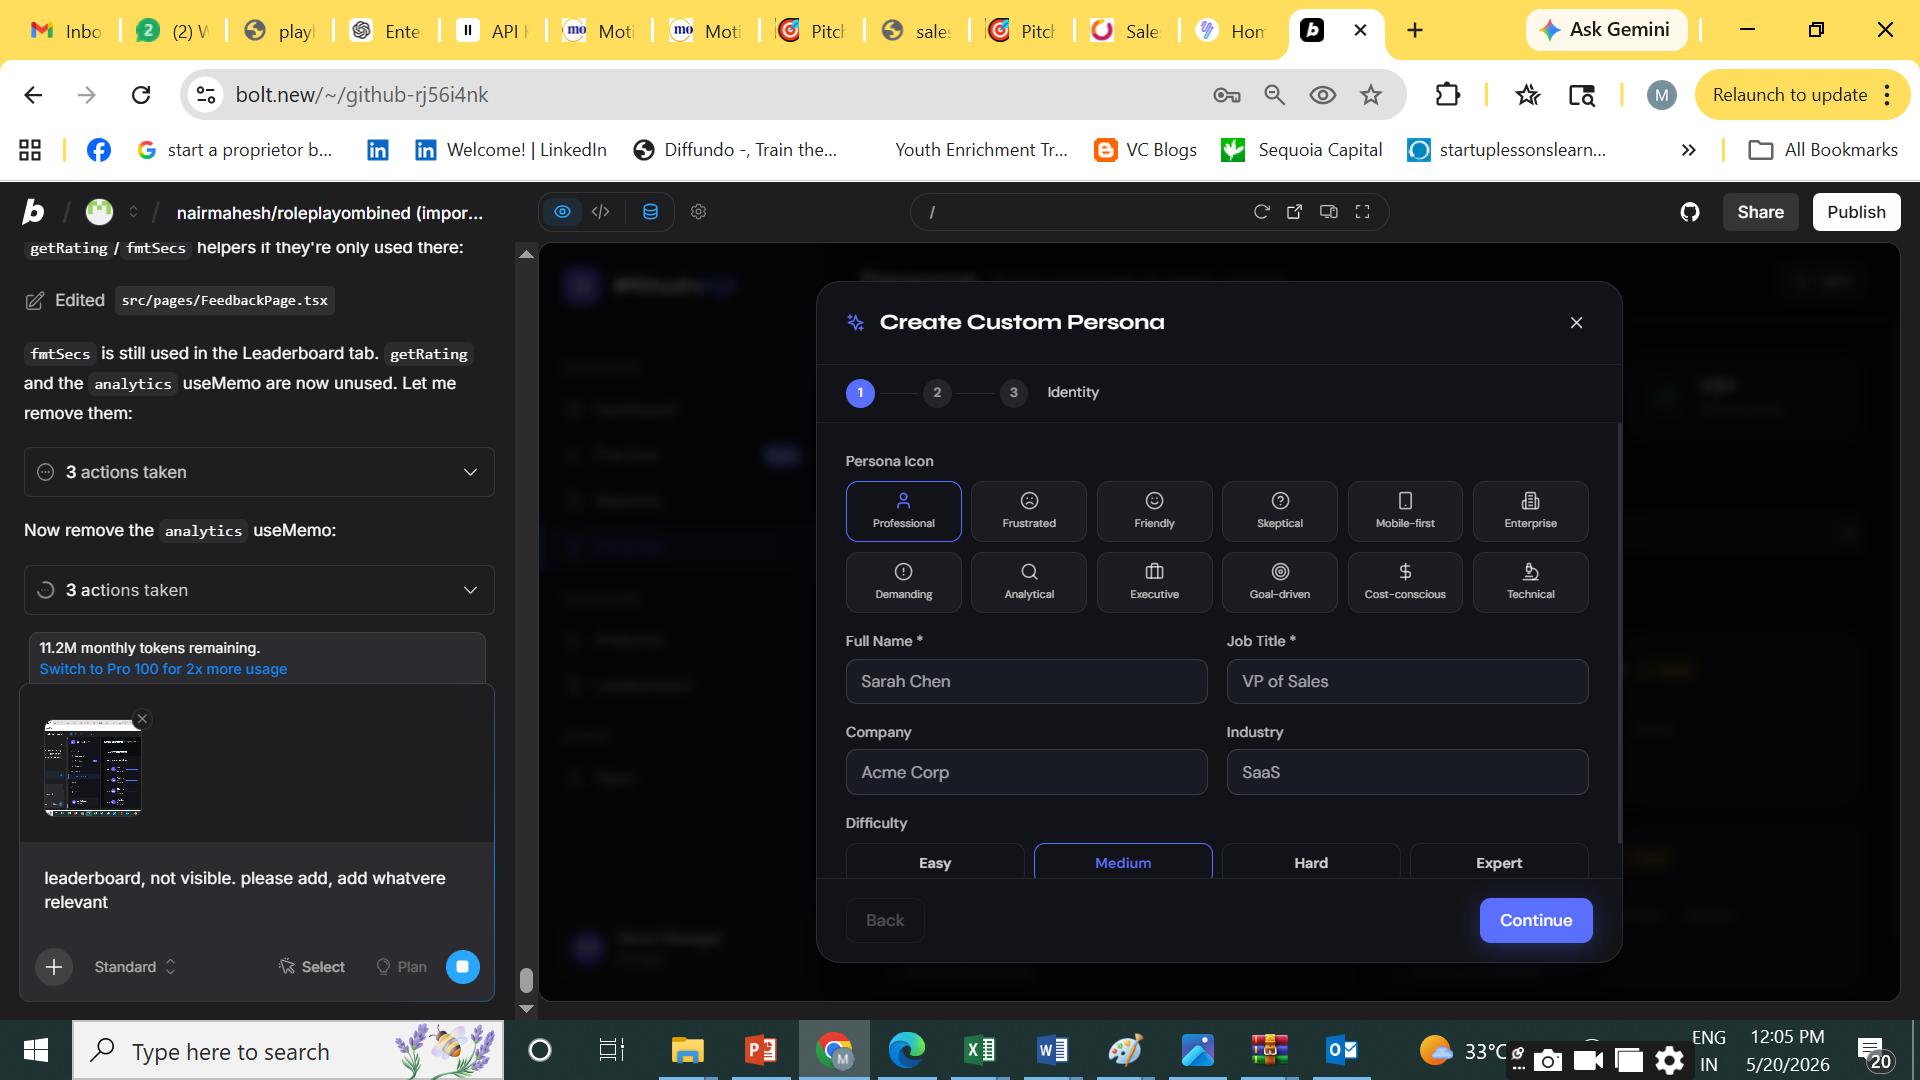
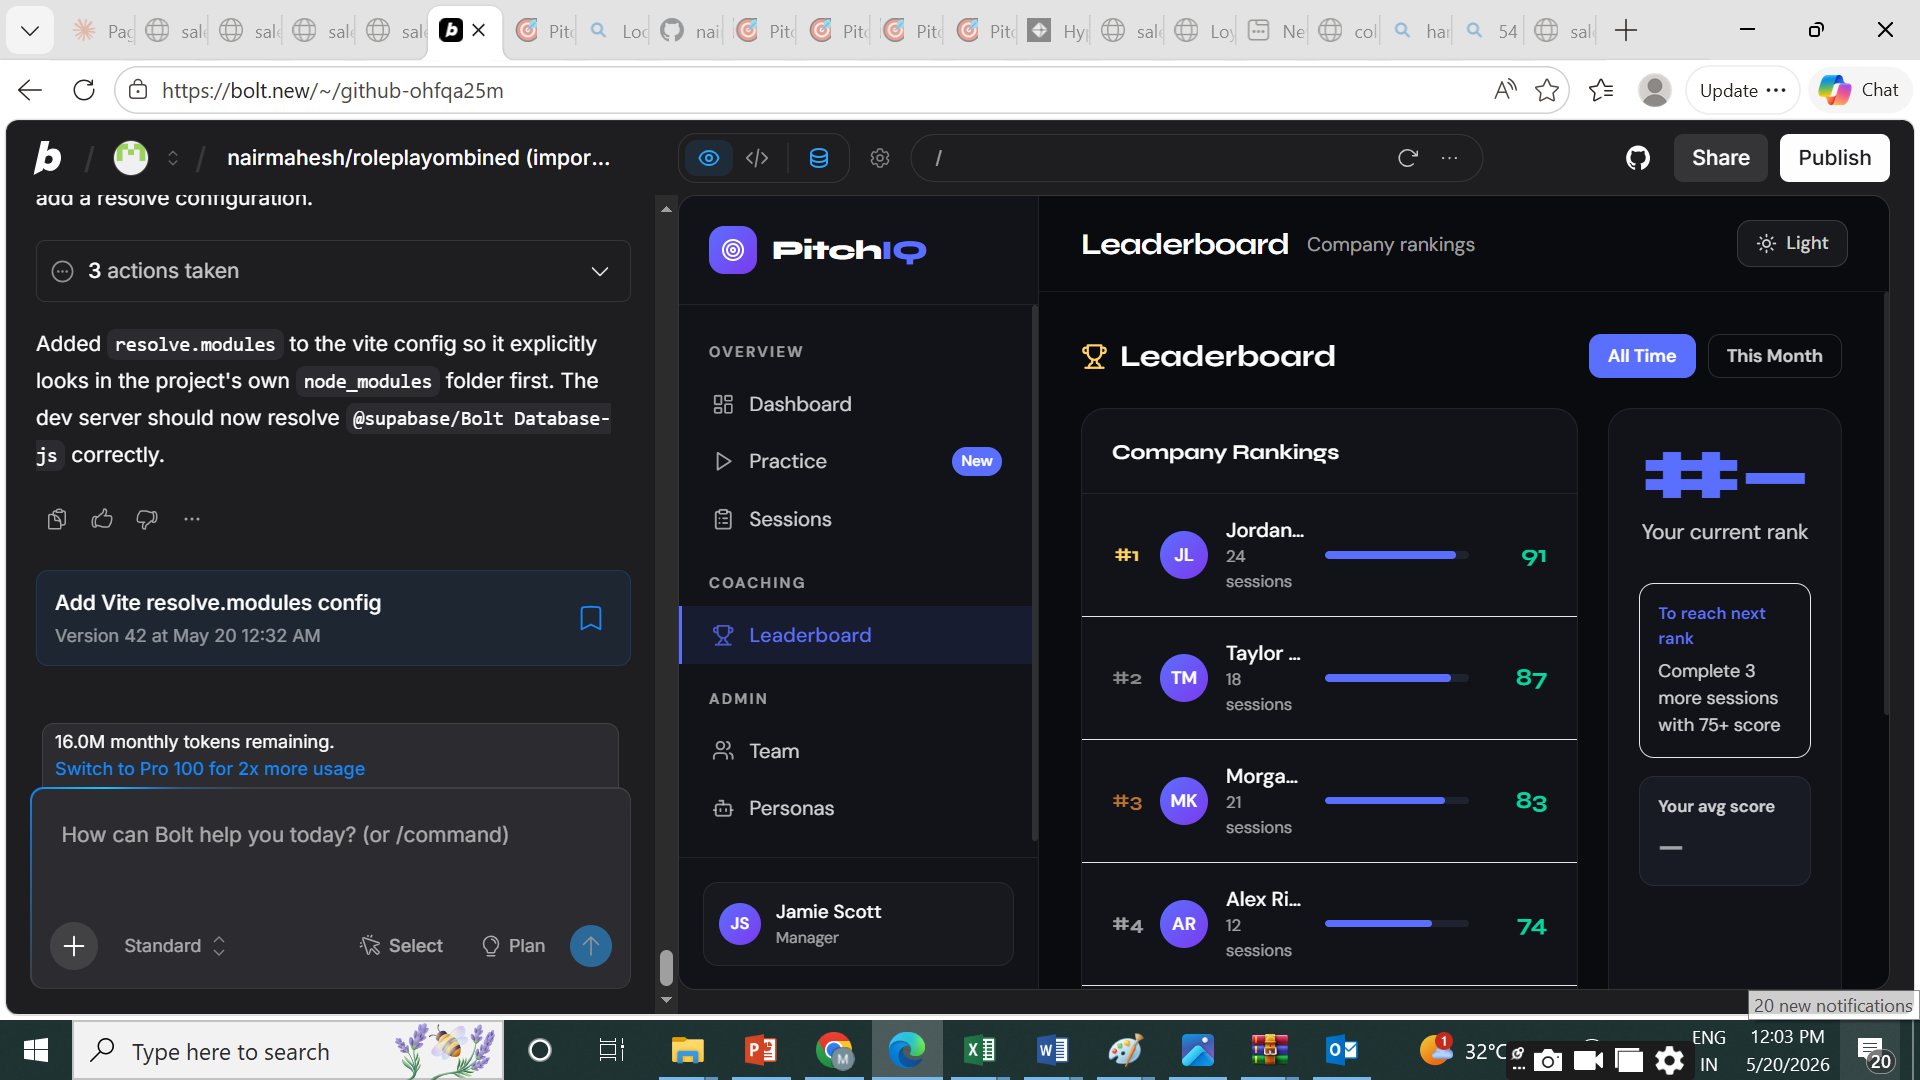
Updated App.tsx

diff --git a/src/App.tsx b/src/App.tsx
@@ -20,6 +20,7 @@ const EvaluationPromptsPage = lazy(() => import('@/pages/EvaluationPromptsPage')
 const CompaniesPage     = lazy(() => import('@/pages/CompaniesPage').then(m => ({ default: m.CompaniesPage })));
 const CompanyDetailPage = lazy(() => import('@/pages/CompanyDetailPage').then(m => ({ default: m.CompanyDetailPage })));
 const SuperAdminStatsPage = lazy(() => import('@/pages/SuperAdminStatsPage').then(m => ({ default: m.SuperAdminStatsPage })));
+const SuperAdminAgentsPage = lazy(() => import('@/pages/SuperAdminAgentsPage').then(m => ({ default: m.SuperAdminAgentsPage })));
 const PlanSettingsPage    = lazy(() => import('@/pages/PlanSettingsPage').then(m => ({ default: m.PlanSettingsPage })));
 const PersonasPage        = lazy(() => import('@/pages/PersonasPage').then(m => ({ default: m.PersonasPage })));
 const AnalyticsPage       = lazy(() => import('@/pages/AnalyticsPage').then(m => ({ default: m.AnalyticsPage })));
@@ -179,6 +180,14 @@ export default function App() {
                 element={
                   <RequireRole roles={['SUPER_ADMIN']}>
                     <ErrorBoundary><SuperAdminStatsPage /></ErrorBoundary>
+                  </RequireRole>
+                }
+              />
+              <Route
+                path="superadmin/agents"
+                element={
+                  <RequireRole roles={['SUPER_ADMIN']}>
+                    <ErrorBoundary><SuperAdminAgentsPage /></ErrorBoundary>
                   </RequireRole>
                 }
               />

diff --git a/src/pages/LeaderboardPage.tsx b/src/pages/LeaderboardPage.tsx
@@ -33,7 +33,7 @@ function UserDetail({ entry, onBack }: UserDetailProps) {
     }).finally(() => setLoading(false));
   }, [entry.user.id]);
 
-  const initials = `${entry.user.firstName[0]}${entry.user.lastName[0]}`;
+  const initials = `${entry.user.firstName?.[0] ?? '?'}${entry.user.lastName?.[0] ?? ''}`;
   const color = scoreColor(entry.avgScore);
 
   return (
